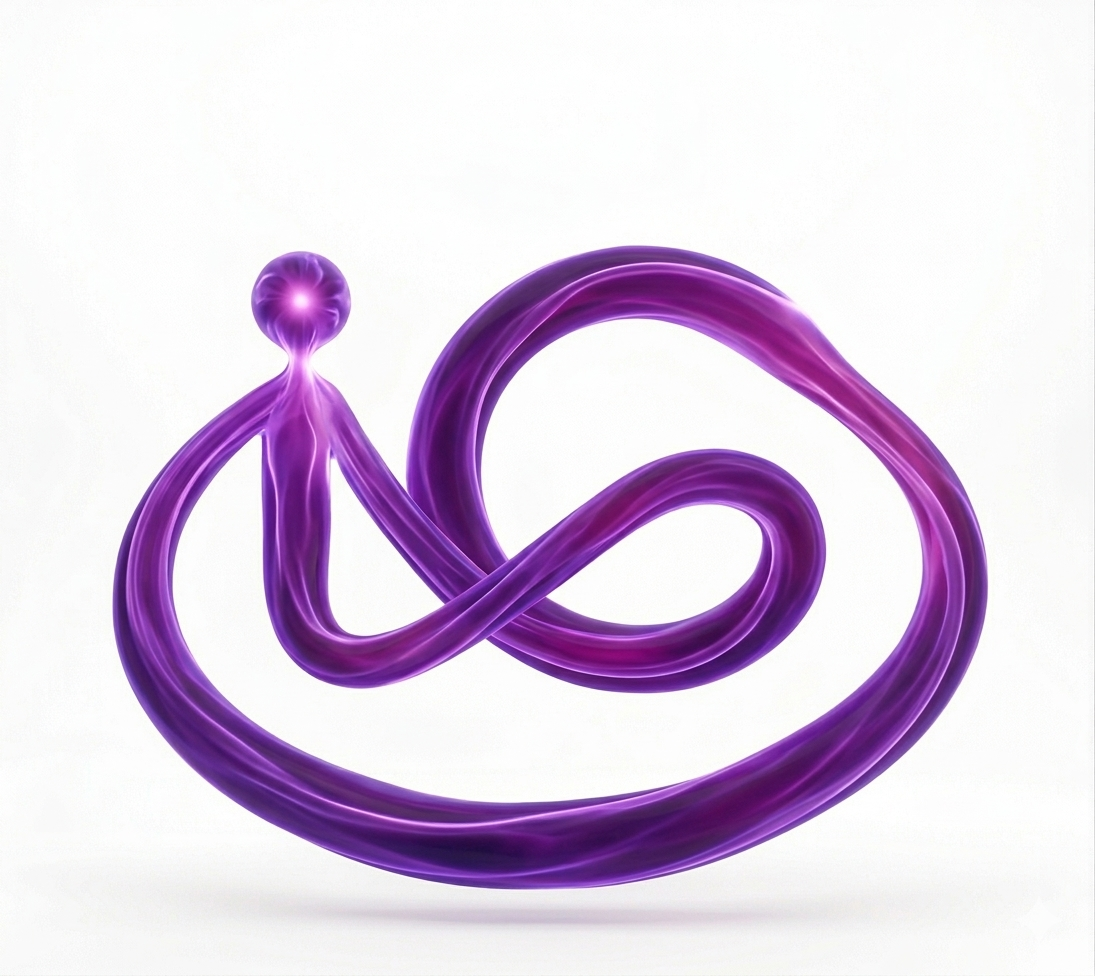
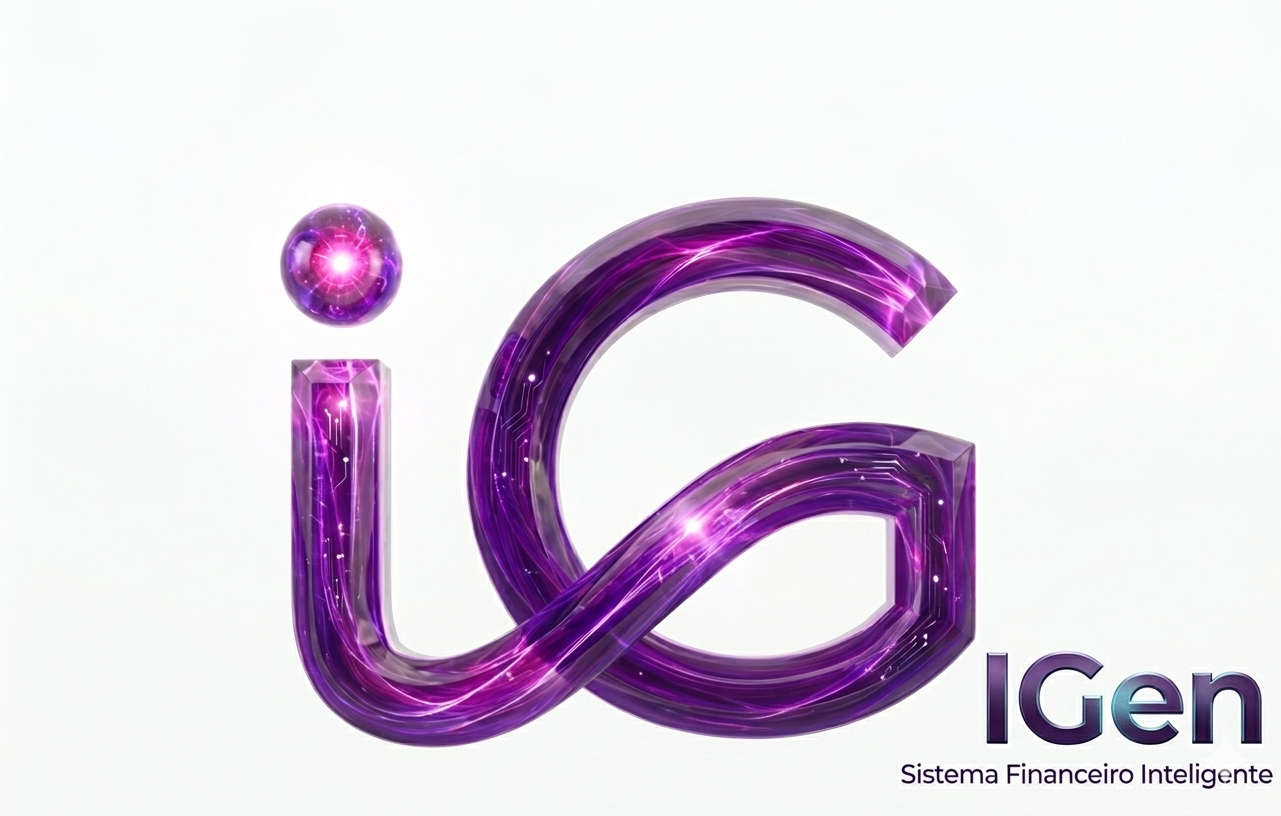
melhorias

diff --git a/app.html b/app.html
@@ -31,9 +31,9 @@
     <meta name="apple-mobile-web-app-status-bar-style" content="black">
     <meta name="apple-mobile-web-app-title" content="IGen">
     <meta name="msapplication-TileColor" content="#6366f1">
-    <link rel="apple-touch-icon" sizes="180x180" href="icons/financeiro.png">
-    <link rel="icon" type="image/png" sizes="192x192" href="icons/financeiro.png">
-    <link rel="shortcut icon" href="icons/financeiro.png">
+    <link rel="apple-touch-icon" sizes="180x180" href="icons/igen.png">
+    <link rel="icon" type="image/png" sizes="192x192" href="icons/igen.png">
+    <link rel="shortcut icon" href="icons/igen.png">
 
 
     <!-- TEMA: carregado antes de tudo para evitar flash -->
@@ -129,7 +129,10 @@
             <i class="fas fa-bars"></i>
         </button>
         <div class="sidebar-header">
-            <h3 class="sidebar-title">IGen - Sistema Financeiro Inteligente</h3>
+            <div class="sidebar-logo-wrap">
+                <img src="icons/financeiro.png" alt="IGen" class="sidebar-logo-img">
+                <span class="sidebar-logo-text">IGen</span>
+            </div>
             <div class="user-profile-sidebar">
                 <div class="avatar-container" id="avatar-container" title="Clique para alterar a foto">
                     <div class="avatar-img" id="avatar-img">

diff --git a/css/layoutGeral.css b/css/layoutGeral.css
@@ -684,7 +684,7 @@ textarea:focus {
     align-items: center;
     justify-content: center;
     flex-shrink: 0;
-    transition: background 0.2s, color 0.2s, box-shadow 0.2s, transform 0.2s;
+    transition: background 0.2s, color 0.2s, box-shadow 0.2s;
     position: absolute;
     right: 0;
     top: 18px;
@@ -697,7 +697,6 @@ textarea:focus {
 .sidebar-toggle-btn:hover {
     background: rgba(255,255,255,0.08);
     color: #fff;
-    transform: translateX(70%) scale(1.03);
 }
 
 /* Título da sidebar */
@@ -711,6 +710,36 @@ textarea:focus {
     font-weight: 700;
     letter-spacing: 0.04em;
     color: var(--white);
+}
+
+/* Logo na sidebar */
+.sidebar-logo-wrap {
+    display: flex;
+    align-items: center;
+    gap: 10px;
+    padding: 4px 0 8px;
+    width: 100%;
+}
+.sidebar-logo-img {
+    width: 36px;
+    height: 36px;
+    object-fit: contain;
+    border-radius: 8px;
+    flex-shrink: 0;
+}
+.sidebar-logo-text {
+    font-size: 1.25rem;
+    font-weight: 800;
+    color: var(--white);
+    letter-spacing: 0.06em;
+    white-space: nowrap;
+}
+.sidebar.collapsed .sidebar-logo-text {
+    display: none;
+}
+.sidebar.collapsed .sidebar-logo-wrap {
+    justify-content: center;
+    padding: 4px 0;
 }
 
 /* ── Estado recolhido: esconde textos, centraliza ícones ───────── */

diff --git a/ia-mobile.html b/ia-mobile.html
@@ -12,9 +12,9 @@
     <meta name="apple-mobile-web-app-capable" content="yes">
     <meta name="apple-mobile-web-app-status-bar-style" content="black">
     <meta name="apple-mobile-web-app-title" content="IGen">
-    <link rel="apple-touch-icon" sizes="180x180" href="icons/financeiro.png">
-    <link rel="icon" type="image/png" sizes="192x192" href="icons/financeiro.png">
-    <link rel="shortcut icon" href="icons/financeiro.png">
+    <link rel="apple-touch-icon" sizes="180x180" href="icons/igen.png">
+    <link rel="icon" type="image/png" sizes="192x192" href="icons/igen.png">
+    <link rel="shortcut icon" href="icons/igen.png">
 
     <!-- CSS -->
     <link rel="stylesheet" href="https://cdnjs.cloudflare.com/ajax/libs/font-awesome/6.4.0/css/all.min.css">
